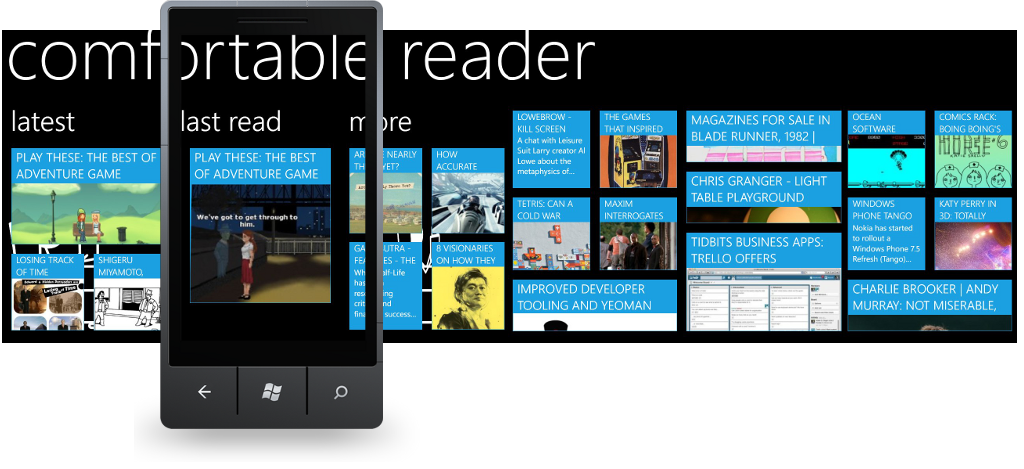
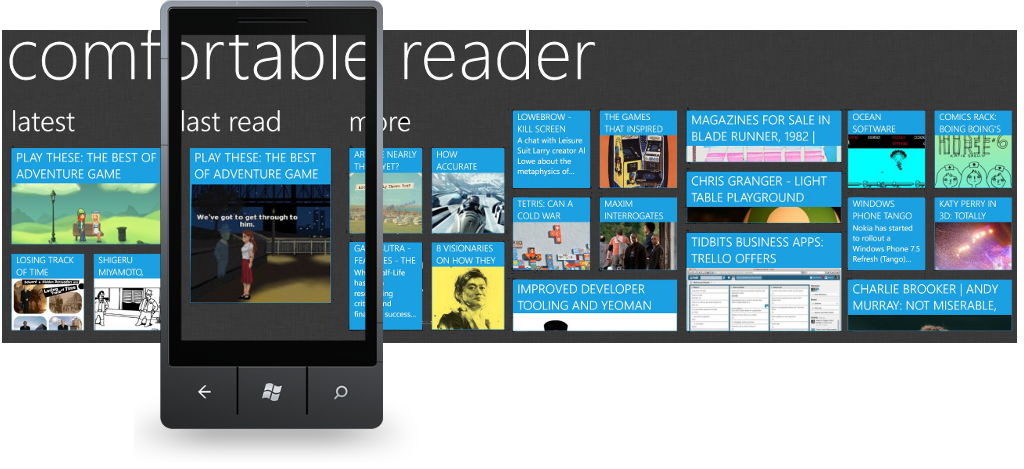
Updated pano image to include bg texture

Changed region(s): [[0.0, 0.0597, 1.0, 0.7463]]

diff --git a/index.html b/index.html
@@ -93,19 +93,18 @@
             <div class="span2"></div>
             <div class="span4">
                 <p>
-                    <strong>Comfortable Reader</strong> is an deliberately simple and client app for 
+                    <strong>Comfortable Reader</strong> is an deliberately simple client app for 
                     <a href="http://www.instapaper.com">Instapaper</a>.
                 </p>
                 <p>
                     It downloads up to 20 most recently added bookmarks from your Instapaper unread items 
                     folder and makes them available in a mobile-friendly reading view.
                 </p>
-                <p class="alert-info">
+                <p>
                     <span class="label label-important">Important</span> You must have a paid subscription
-                    to Instapaper in order to use Comfortable Reader.</p>
-                        <p>
+                    to Instapaper in order to use Comfortable Reader.
                     Instapaper allows apps to add bookmarks for free, but to download and read bookmarks
-                    from an app requires you 
+                    from an app requires you to subscribe which is a very reasonable $1 per month.
                 </p>
                 <ul>
 					<li>Full articles and images cached for offline reading</li>
